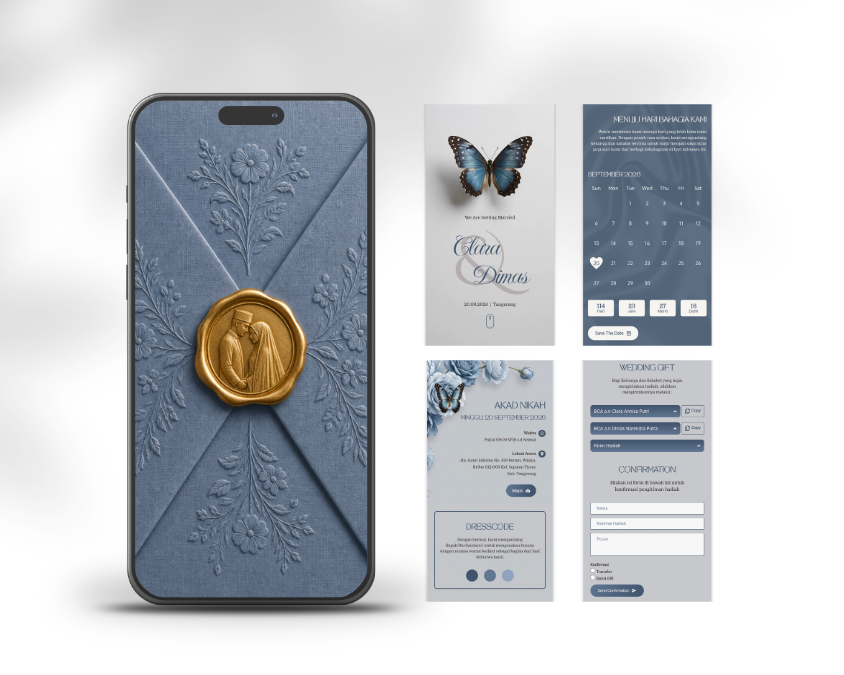
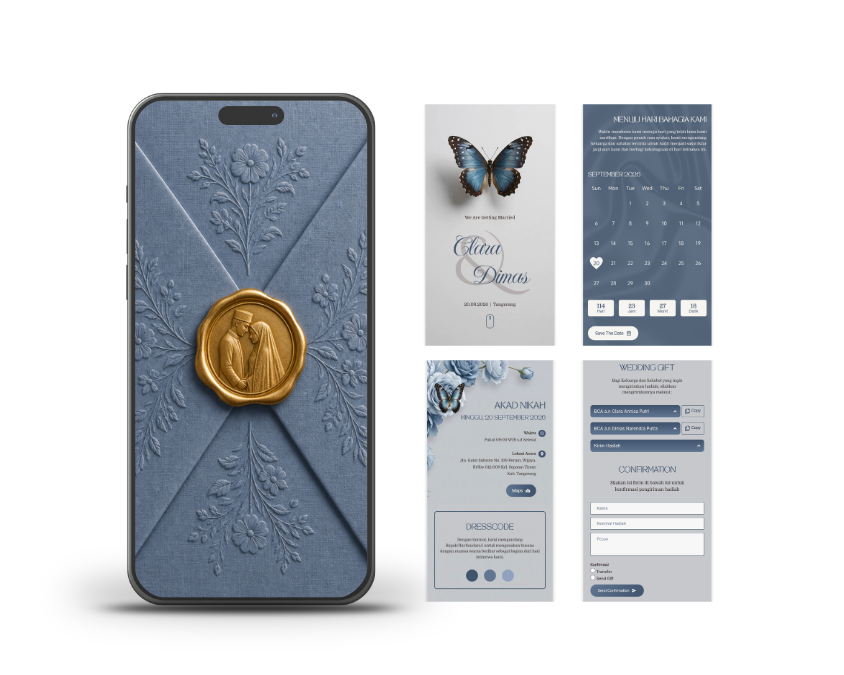
env series edited

diff --git a/src/app/(main)/landingpage/product-card-demo.tsx b/src/app/(main)/landingpage/product-card-demo.tsx
@@ -7,15 +7,20 @@ import { Typography } from "@/components/ui/typography";
 import { resolveImageSrc } from "@/lib/resolve-image";
 import { useDemoPreview } from "@/components/demo-preview-provider";
 import { Badge } from "@/components/ui/badge";
+import { cn } from "@/lib/utils";
 
 export function ProductCardDemo({ 
   demoLink, 
   badgeLabel = "Design Premium",
-  badgeVariant = "glass"
+  badgeVariant = "glass",
+  badgeClassName,
+  badgeStyle
 }: { 
   demoLink: any;
   badgeLabel?: string;
   badgeVariant?: "default" | "secondary" | "destructive" | "outline" | "ghost" | "link" | "glass" | "sale";
+  badgeClassName?: string;
+  badgeStyle?: React.CSSProperties;
 }) {
   const { openPreview } = useDemoPreview();
   const imageSrc = resolveImageSrc(demoLink.image_url);
@@ -41,7 +46,11 @@ export function ProductCardDemo({
         )}
         <div className="absolute inset-0 bg-background/0 group-hover:bg-background/10 transition-colors duration-300" />
         <div className="absolute top-3 left-3 z-10">
-          <Badge variant={badgeVariant} className="backdrop-blur-md tracking-tight">
+          <Badge 
+            variant={badgeVariant} 
+            className={cn("backdrop-blur-md tracking-tight", badgeClassName)}
+            style={badgeStyle}
+          >
             {badgeLabel}
           </Badge>
         </div>

diff --git a/src/app/(main)/landingpage/env-series/page.tsx b/src/app/(main)/landingpage/env-series/page.tsx
@@ -78,8 +78,7 @@ async function ENVSeriesData() {
                 >
                   <ProductCardDemo
                     demoLink={demo}
-                    badgeLabel={index === demoLinks.length - 1 ? "Bonus Template" : "Design Premium"}
-                    badgeVariant={index === demoLinks.length - 1 ? "destructive" : "glass"}
+                    badgeStyle={{ backgroundColor: "#9A7437", color: "#FFFFFF" }}
                   />
                 </ScrollReveal>
               ))}
